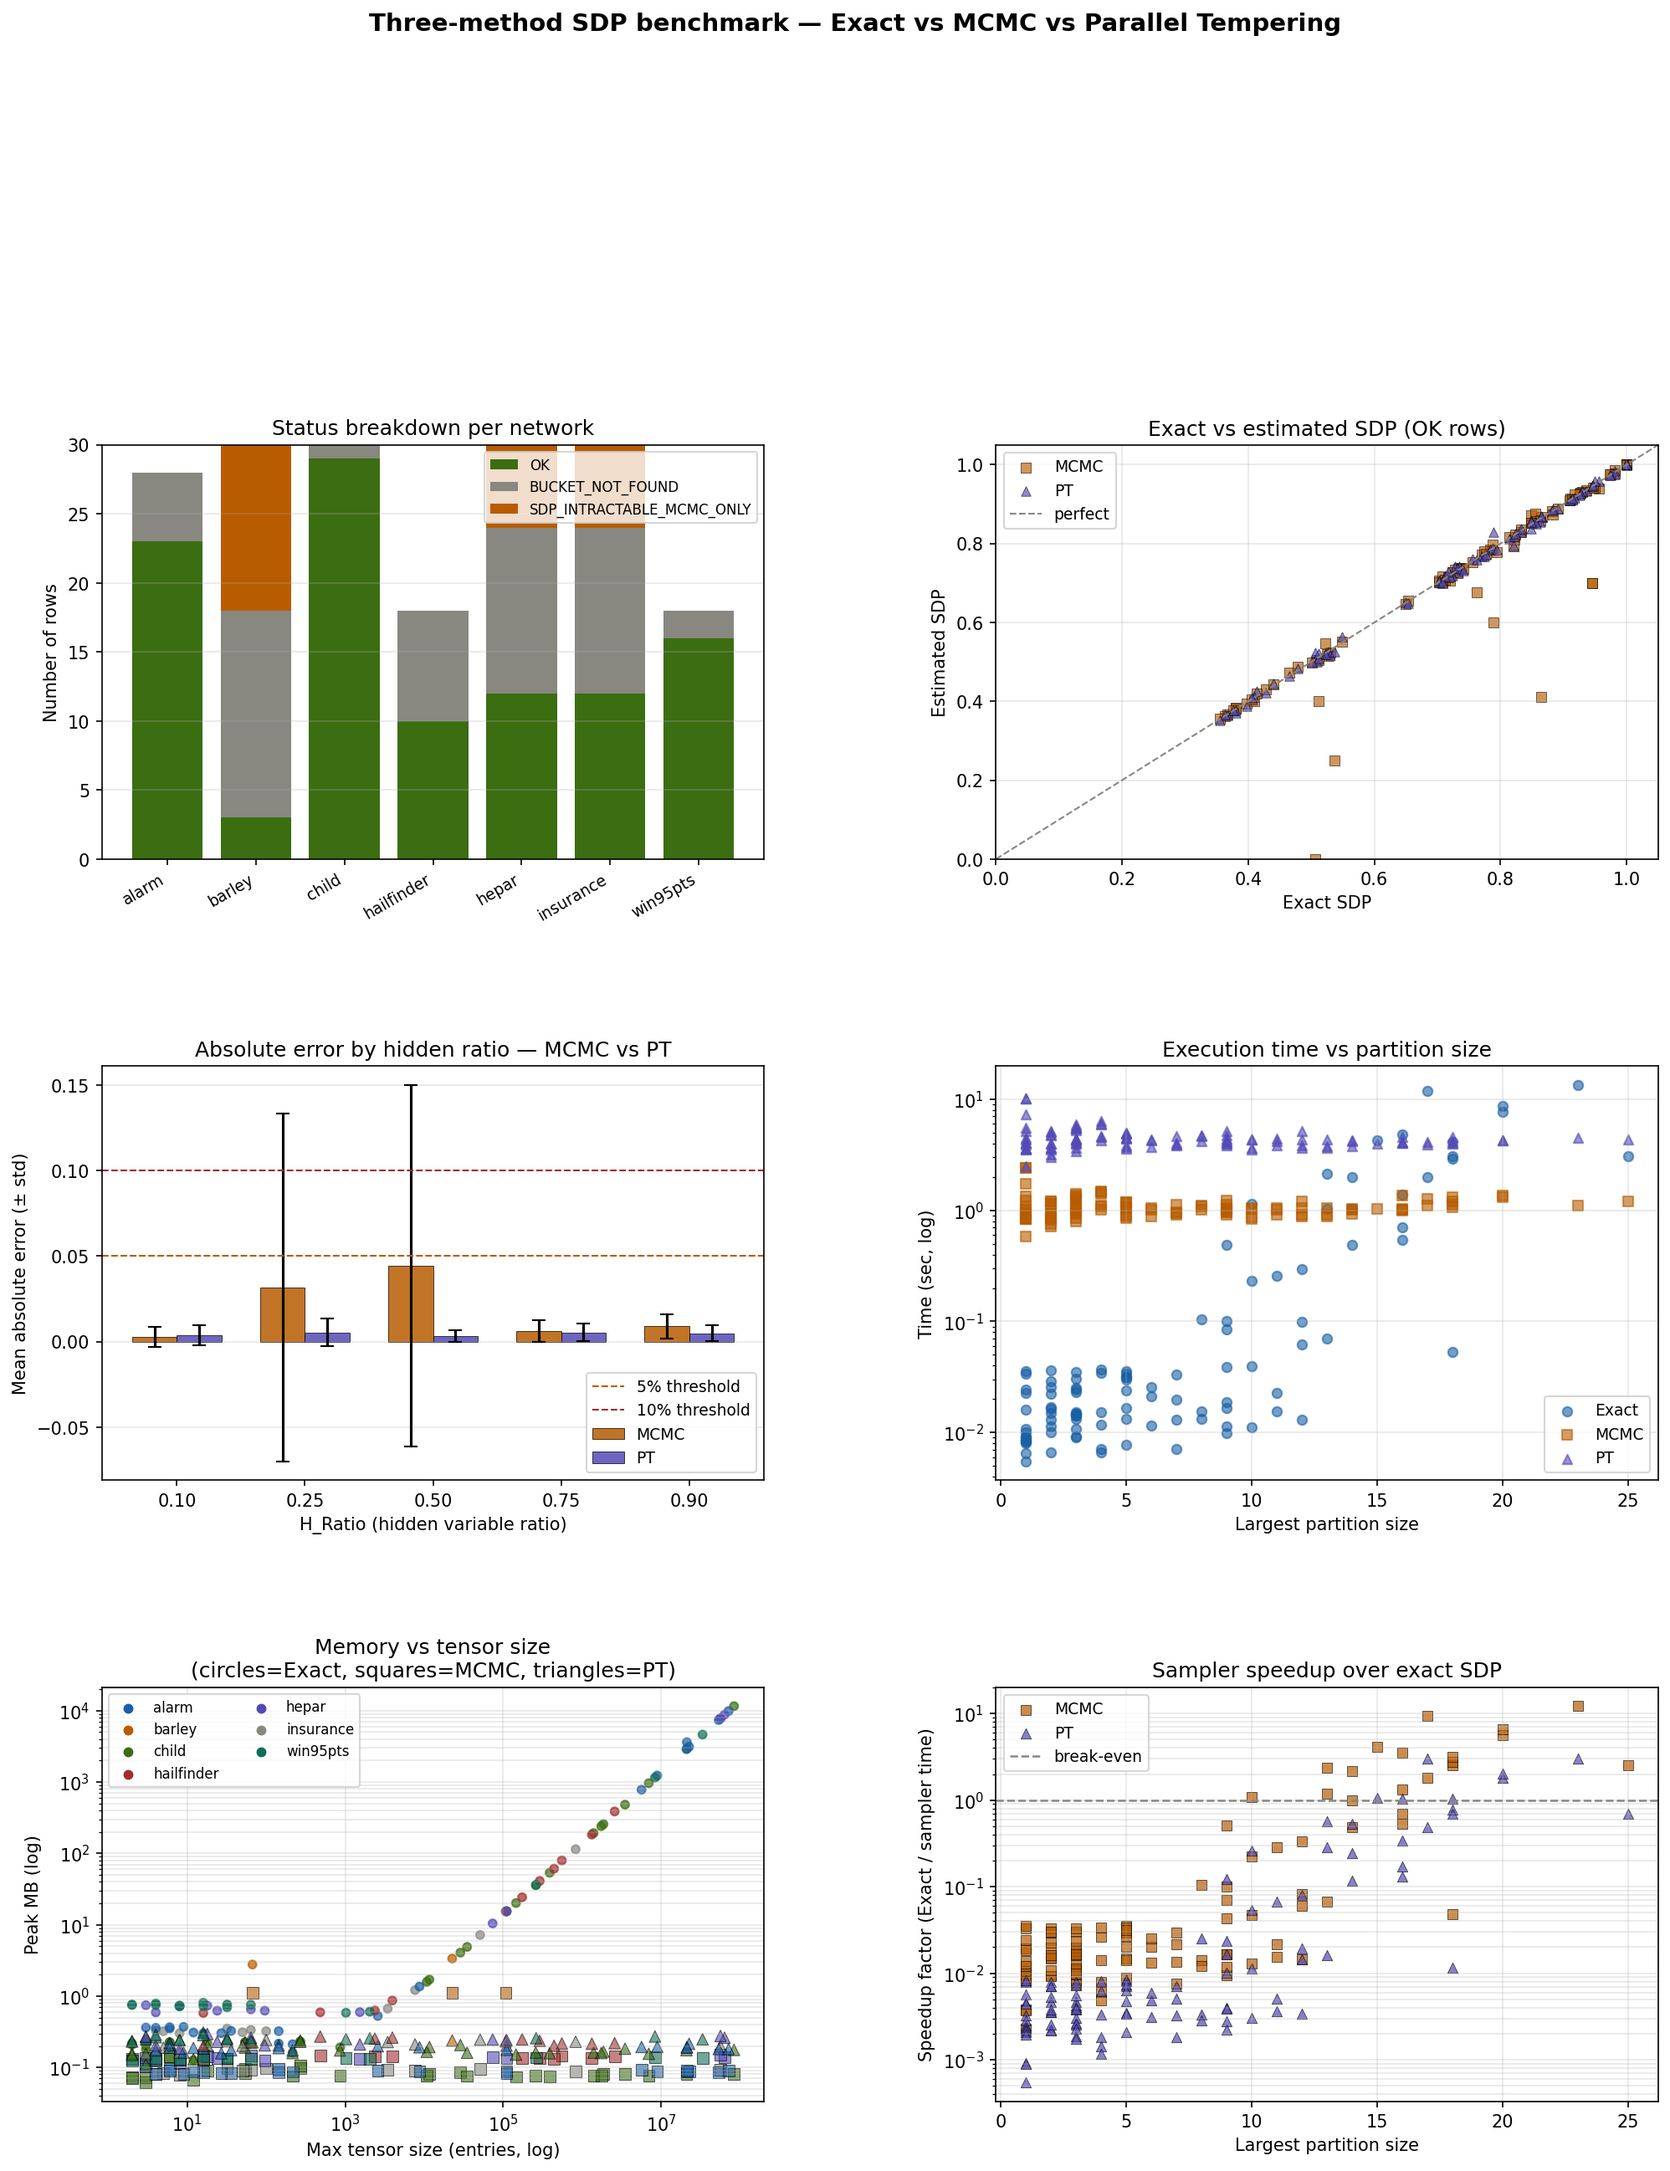
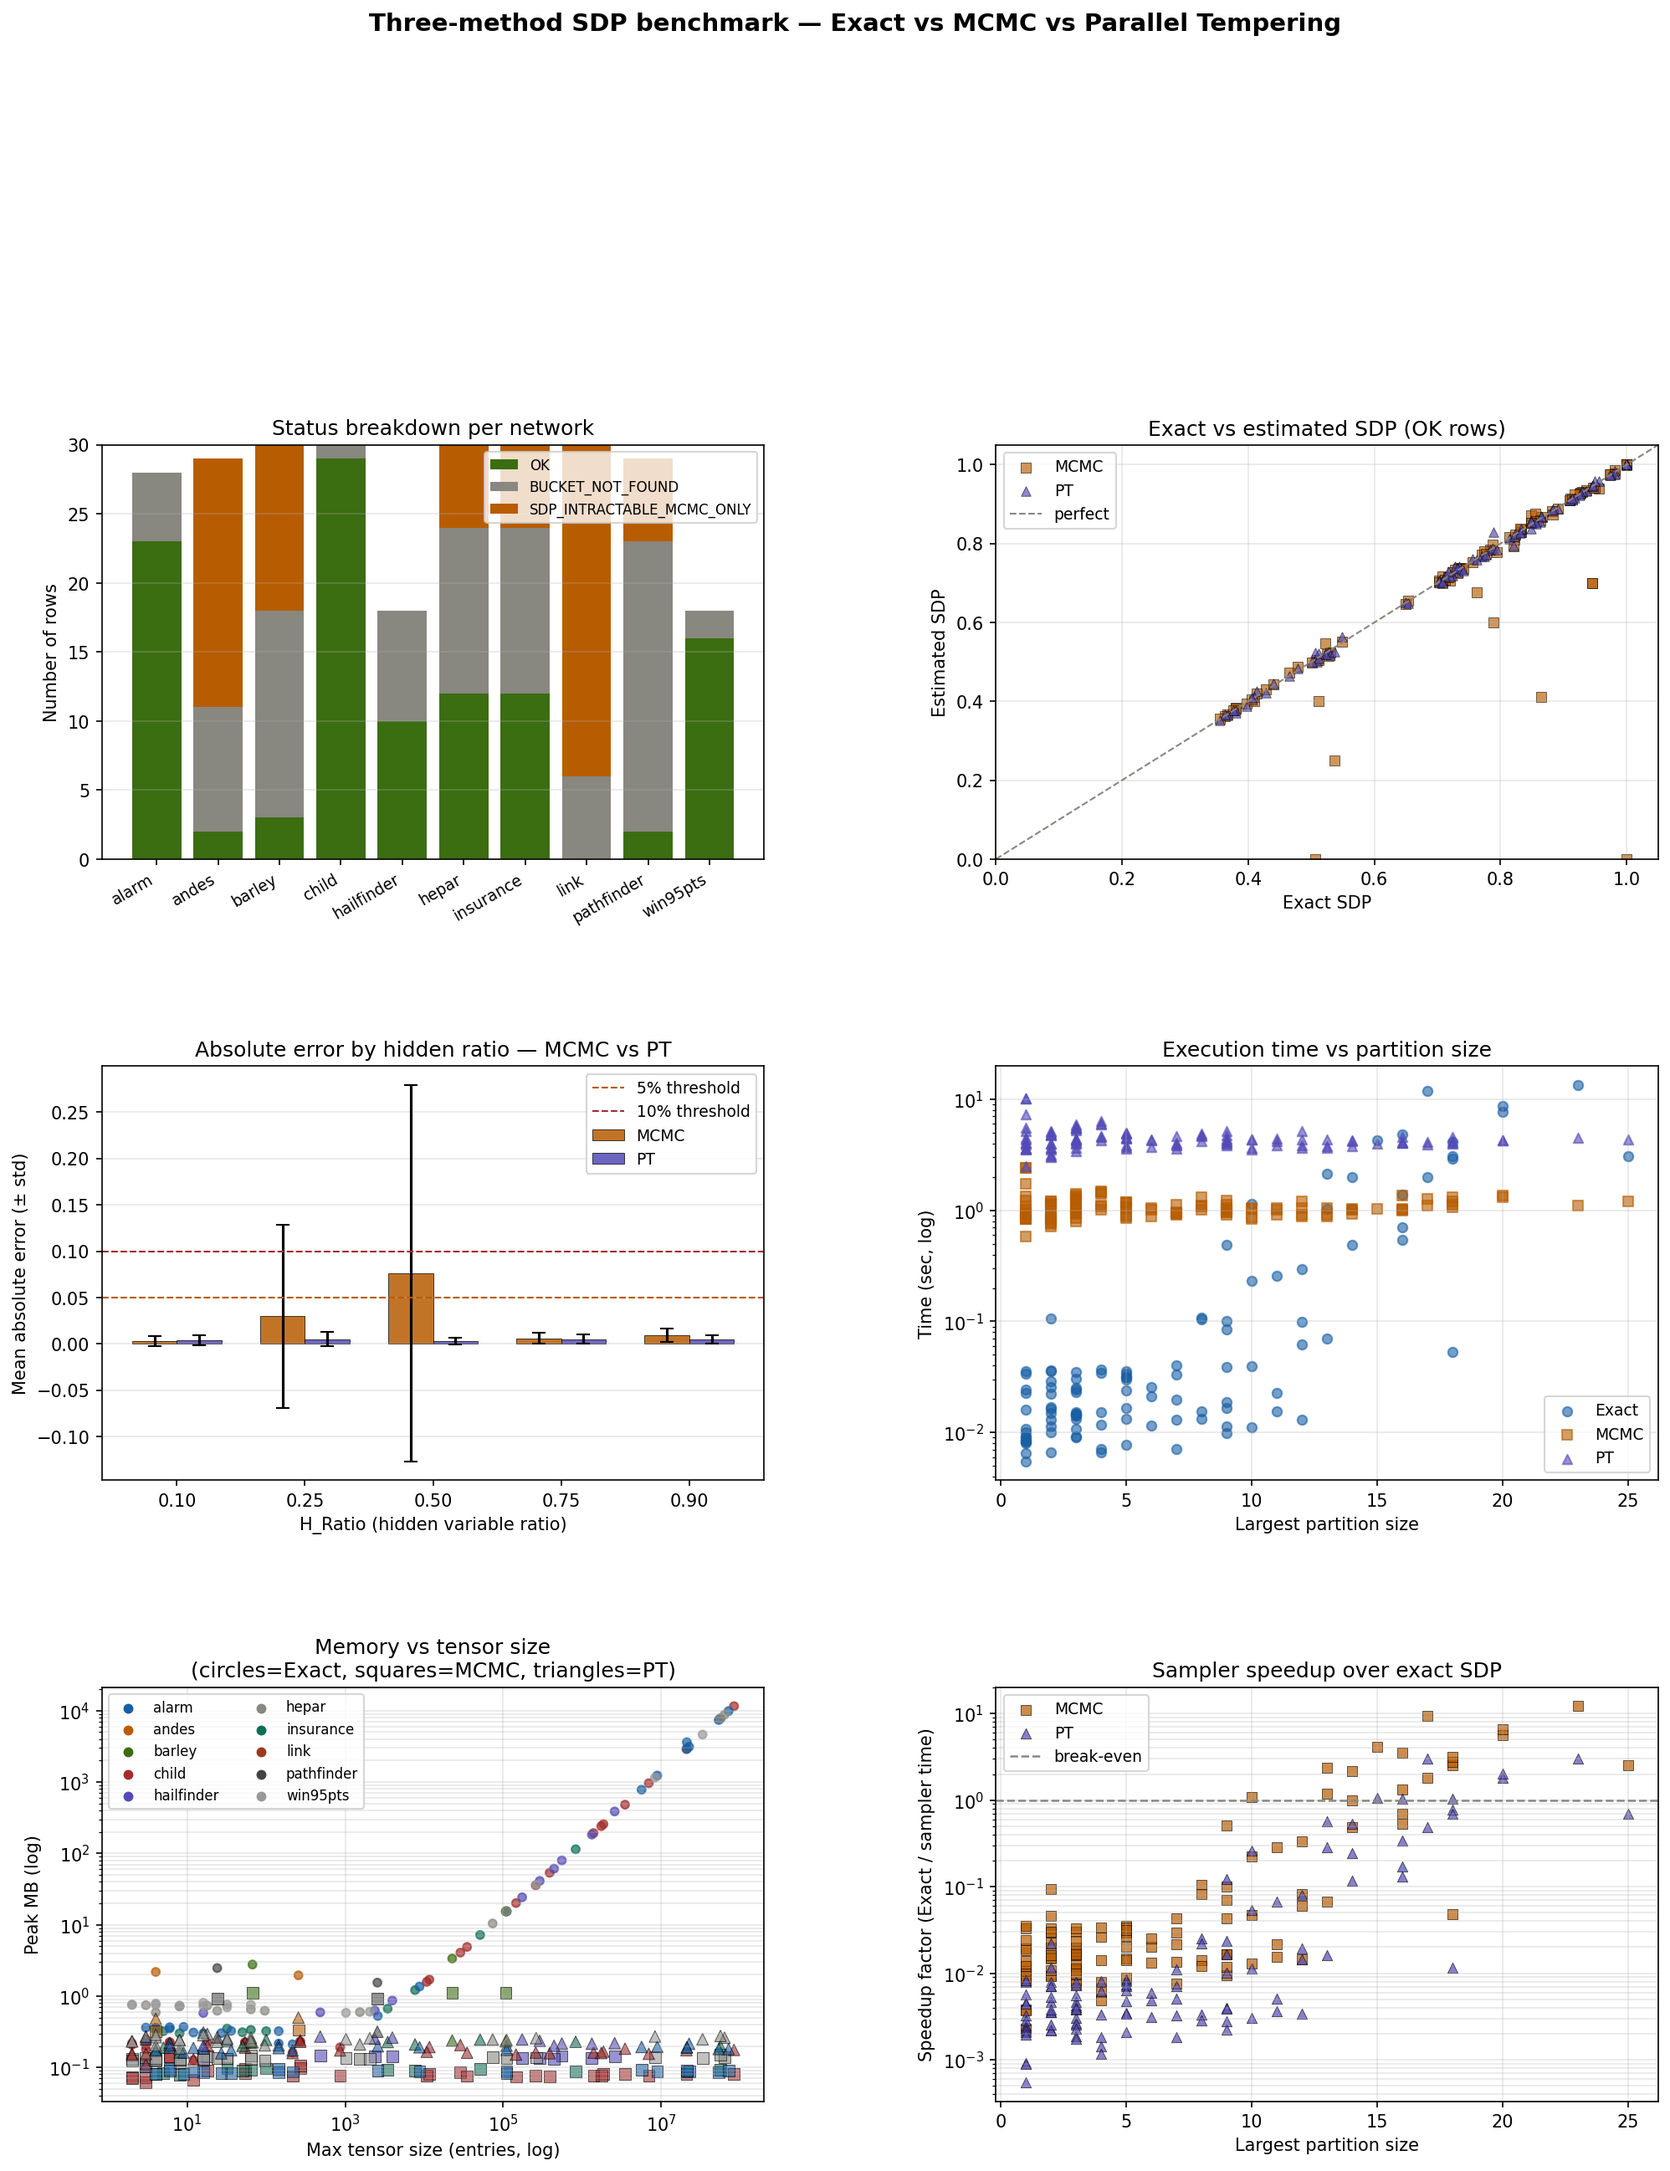
update

diff --git a/src/benchmark_three_methods_script.py b/src/benchmark_three_methods_script.py
@@ -358,8 +358,8 @@ def run_3_method_targeted_sdp(output_csv="three_method_sdp_benchmark.csv",
                                burn_in=5_000,
                                thinning=100,
                                max_tensor_entries=MAX_TENSOR_ALLOWED,
-                               pt_n_chains=4,
-                               pt_max_temp=40.0):
+                               pt_n_chains=6,
+                               pt_max_temp=80.0):
     """
     Three-method SDP benchmark: exact, plain MCMC (LW-seeded), and
     parallel tempering. Same structure as run_targeted_sdp_experiment,
@@ -380,7 +380,7 @@ def run_3_method_targeted_sdp(output_csv="three_method_sdp_benchmark.csv",
         Hottest temperature (cold = 1.0, ladder is geometric).
     """
     results = []
-    H_RATIOS = [0.10, 0.25, 0.50, 0.75, 0.90]
+    H_RATIOS = [0.10, 0.25]
     DECISION_THRESHOLD = 0.5
     TARGET_BUCKETS = [0.40, 0.50, 0.70, 0.8, 0.9, 1.0]
     MCMC_TRIALS = 10
@@ -503,8 +503,8 @@ def run_3_method_targeted_sdp(output_csv="three_method_sdp_benchmark.csv",
                 bn, target, target_value, DECISION_THRESHOLD,
                 n_evidence,
                 buckets=TARGET_BUCKETS,
-                batch_size=100,
-                max_batches=1,
+                batch_size=200,
+                max_batches=2,
                 max_tensor_entries=max_tensor_entries,
             )
             harvested_data = harvested['buckets']
